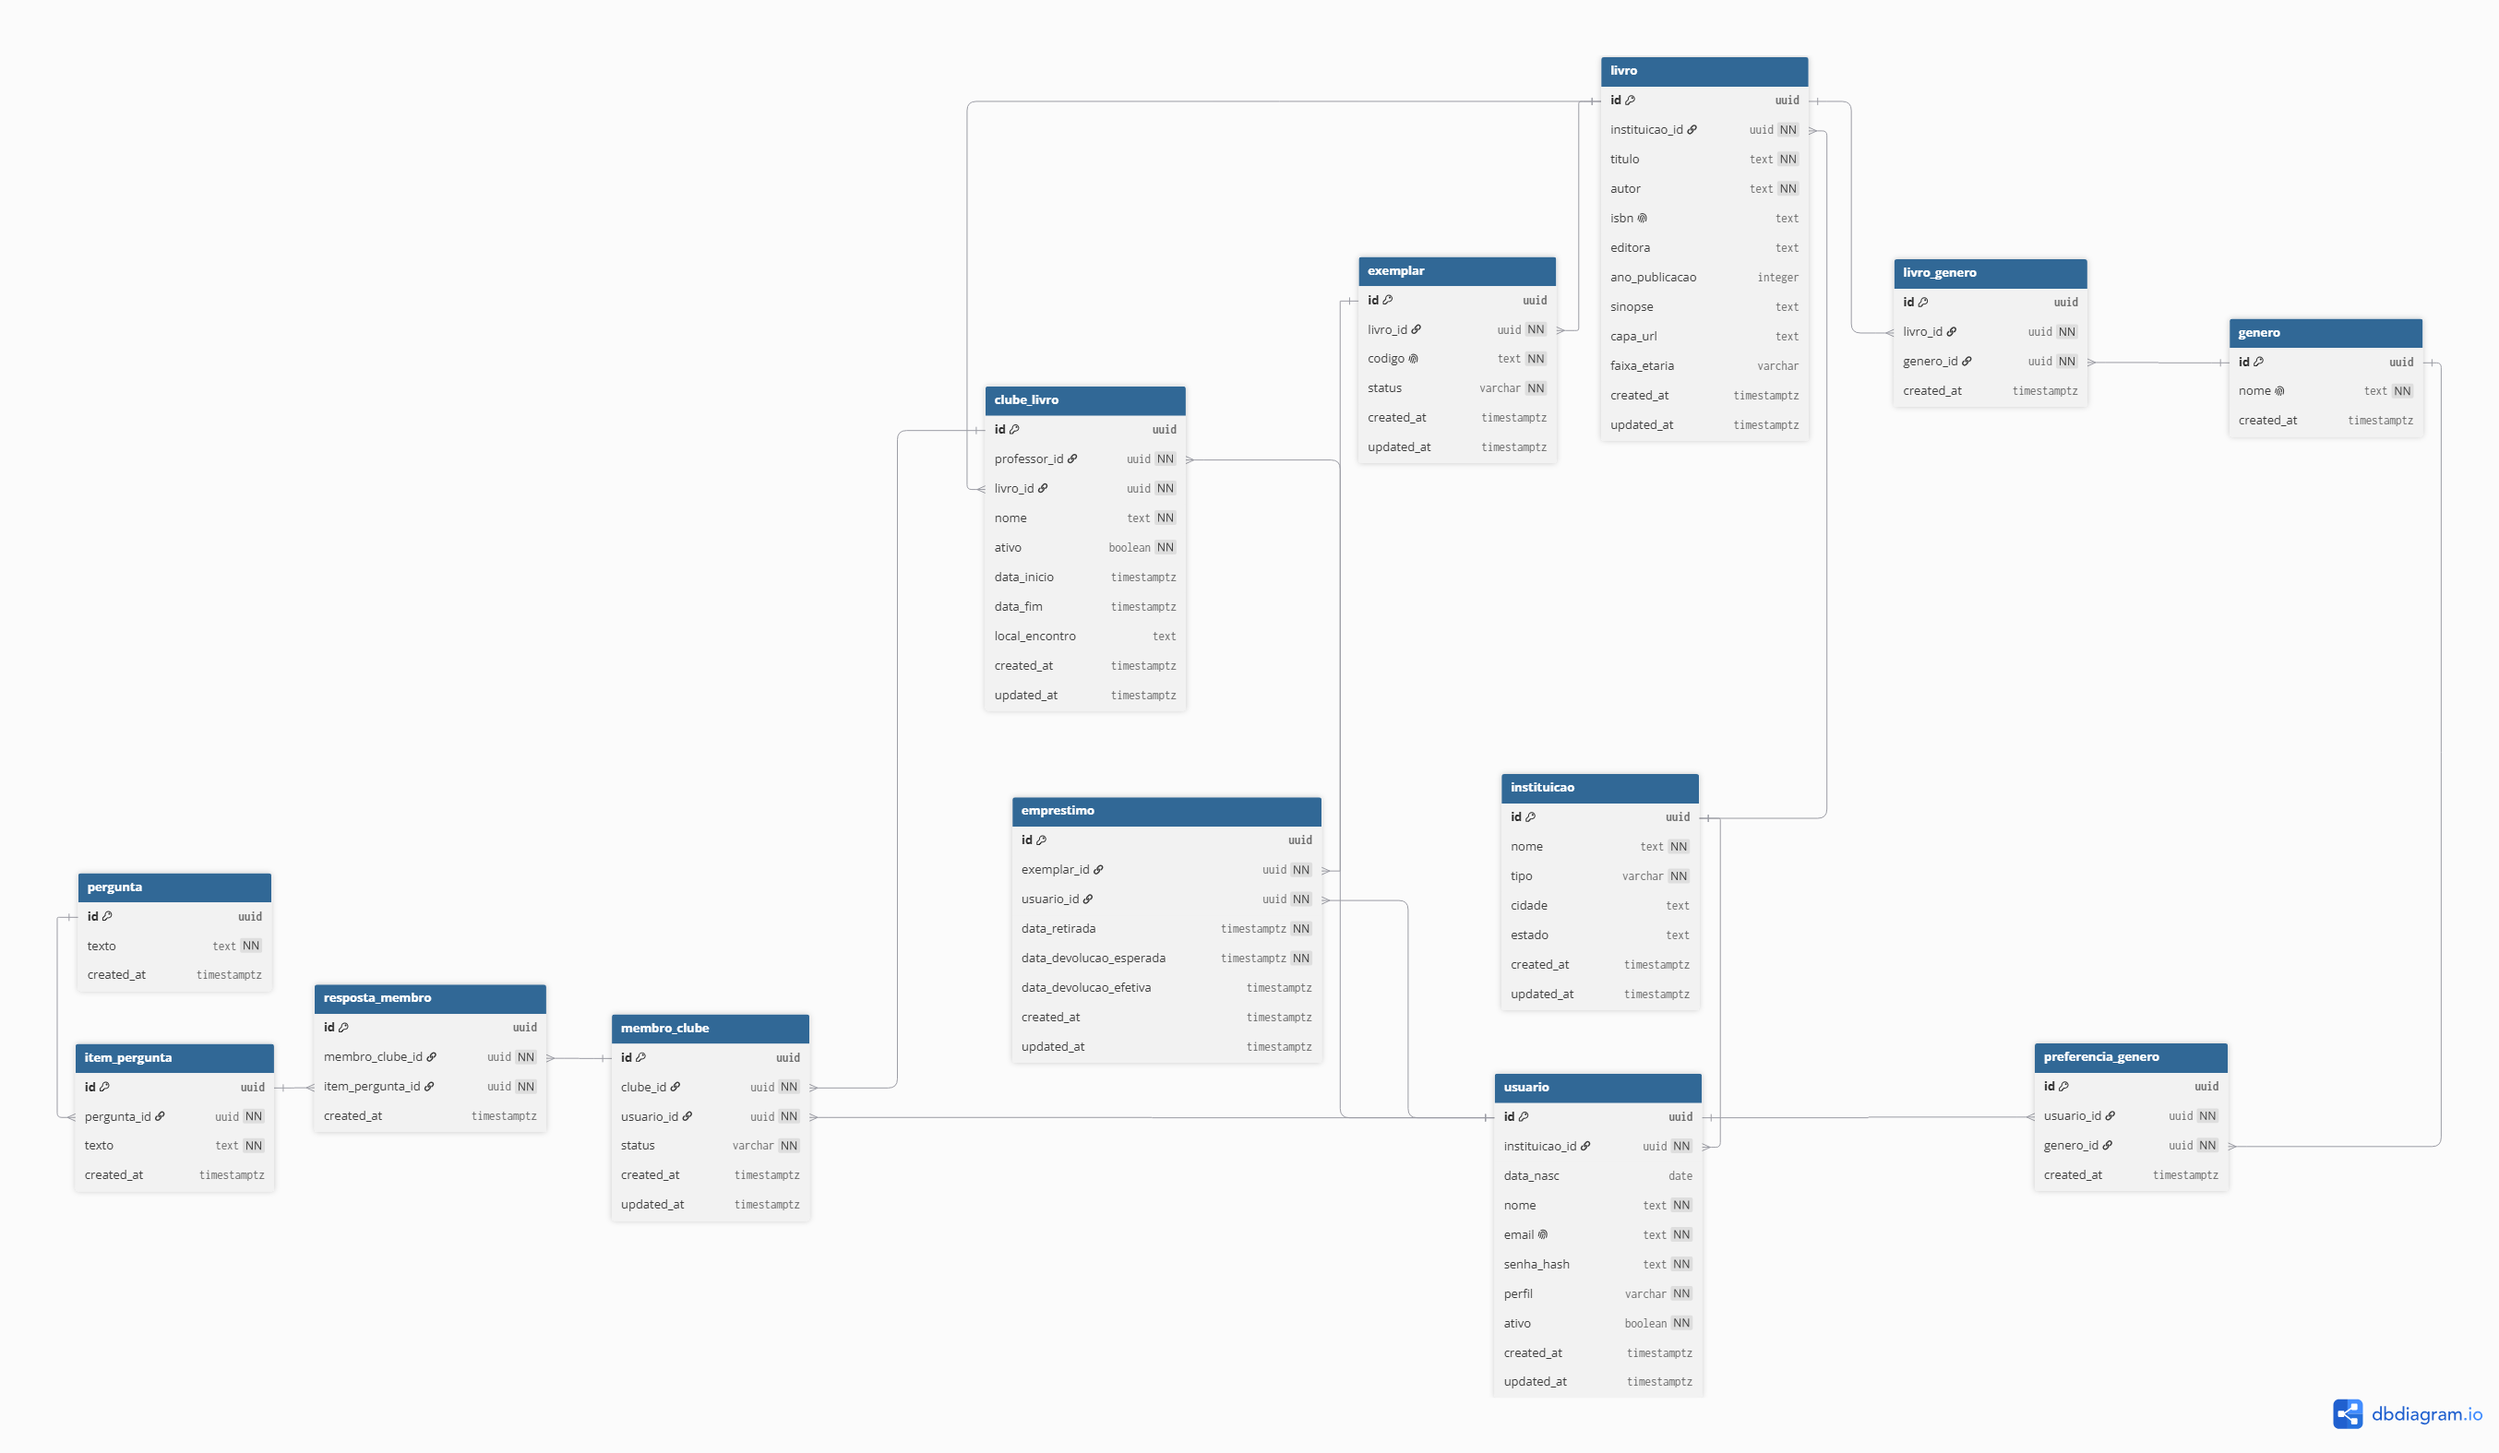
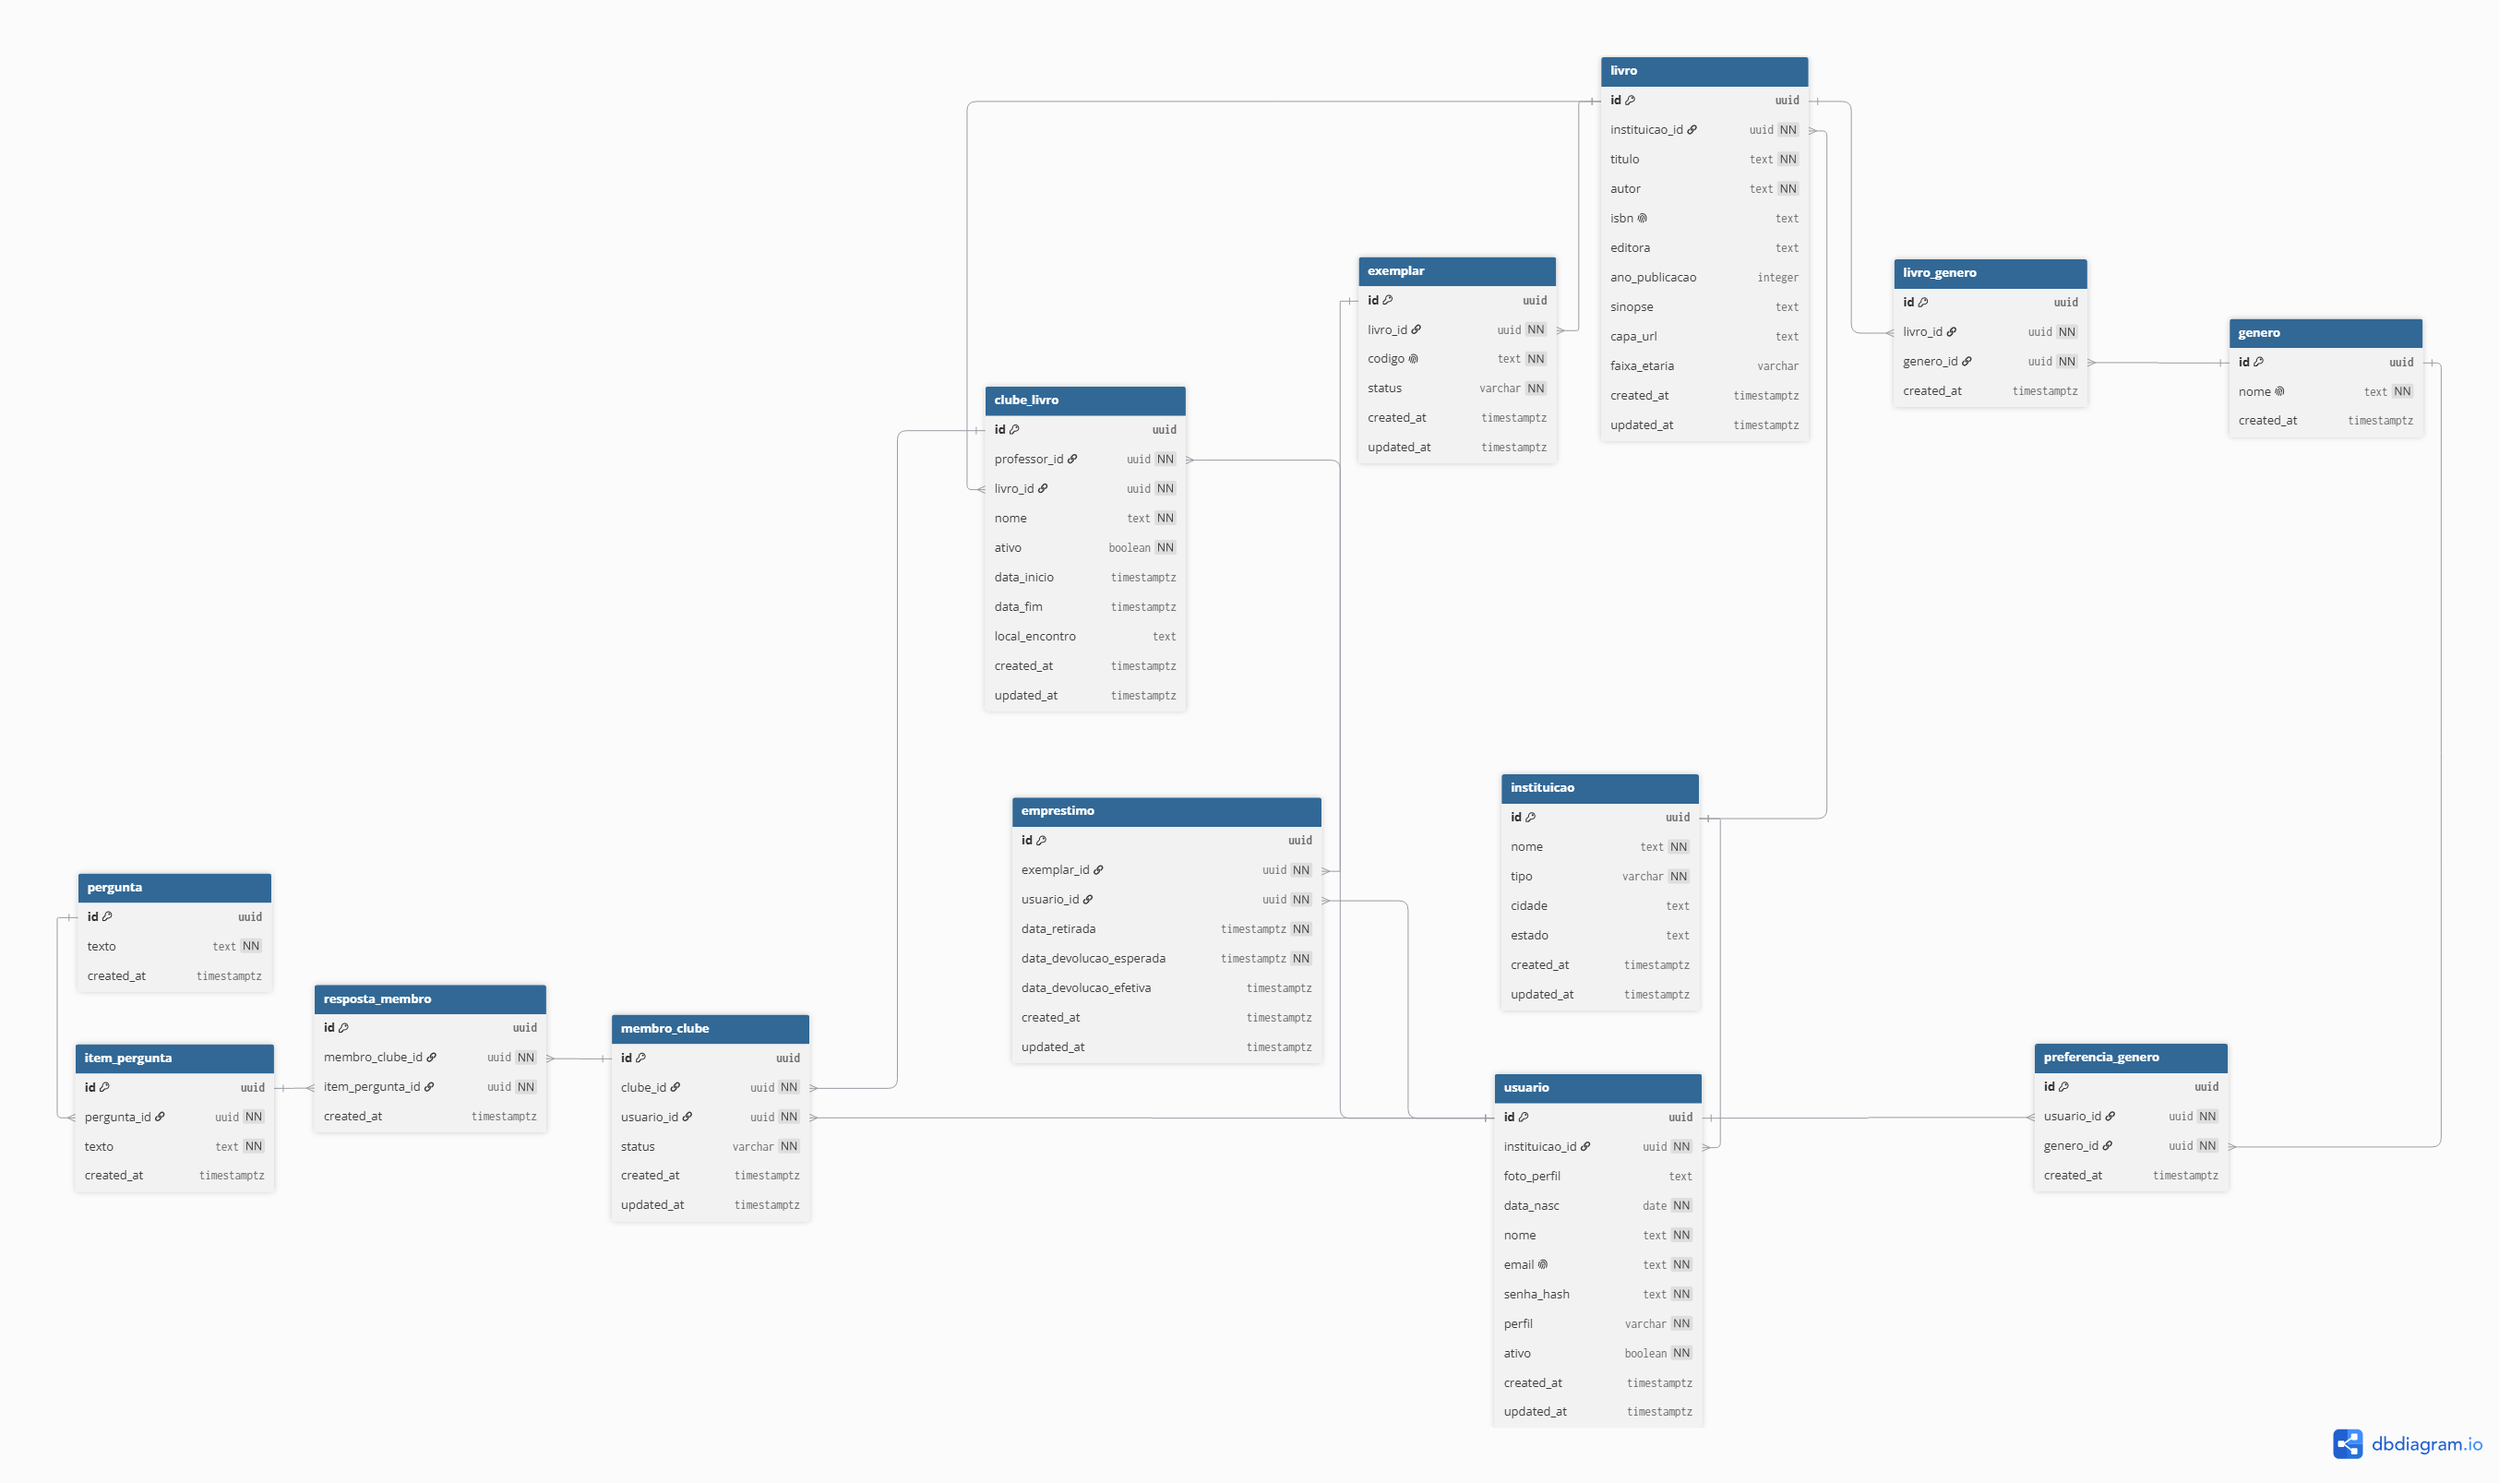
docs: readme atualizado com arquitetura e decisões técnicas

diff --git a/README.md b/README.md
@@ -50,3 +50,74 @@ Sistema de Acompanhamento Bibliográfico Escolar em Rede
 ```bash
    npm run start:dev
 ```
+
+## Arquitetura
+
+```
+┌─────────────────────────────────────────────────────────────┐
+│                        Cliente                              │
+│                    Angular (SPA)                            │
+│         Reactive Forms · HTTP Interceptor · Lazy Loading    │
+└─────────────────────────┬───────────────────────────────────┘
+                          │ HTTP/REST + JWT
+┌─────────────────────────▼───────────────────────────────────┐
+│                        Backend                              │
+│                       NestJS                                │
+│                                                             │
+│  Controller → Service → Repository                          │
+│                                                             │
+│  JwtAuthGuard · RolesGuard · HttpExceptionFilter            │
+└─────────────────────────┬───────────────────────────────────┘
+                          │ TypeORM
+┌─────────────────────────▼───────────────────────────────────┐
+│                     Banco de Dados                          │
+│                     PostgreSQL 16                           │
+│              (container Docker em produção)                 │
+└─────────────────────────────────────────────────────────────┘
+```
+
+## Comandos úteis
+
+```bash
+# Gerar uma nova migration
+cd backend && npm run migration:generate -- src/database/migrations/nome-da-migration
+
+# Aplicar migrations pendentes
+cd backend && npm run migration:run
+
+# Reverter a última migration
+cd backend && npm run migration:revert
+
+# Popular o banco com dados de desenvolvimento
+cd backend && npm run seed
+
+# Documentação da API (com o servidor rodando)
+http://localhost:3000/api
+```
+
+## Decisões técnicas
+
+**`synchronize: false`**
+O TypeORM nunca altera o schema do banco automaticamente. Toda mudança estrutural é feita via migration versionada, garantindo rastreabilidade e consistência entre ambientes.
+
+**UUID como chave primária**
+Todas as entidades usam UUID gerado pelo banco (`uuid_generate_v4()`). Evita colisões em ambientes distribuídos e não expõe sequências numéricas previsíveis nas URLs.
+
+**`timestamptz` para campos de data e hora**
+Todos os campos de data com hora usam `TIMESTAMP WITH TIME ZONE`. Garante que os valores são armazenados em UTC e convertidos corretamente para o fuso do cliente, evitando bugs silenciosos de timezone.
+
+**Senhas com bcrypt**
+Senhas nunca são armazenadas em texto puro. O hash é gerado com `bcrypt` (salt de 10 rounds) antes de persistir. O campo na entity se chama `senha_hash` para deixar explícita a intenção.
+
+**Filtro por instituição via JWT**
+O payload do token JWT inclui o `instituicao_id` do usuário autenticado. Os endpoints `findAll` usam esse valor para filtrar os dados, garantindo isolamento entre instituições sem consultas adicionais ao banco.
+
+**Quantidade de exemplares calculada em runtime**
+Não existe campo `quantidade_disponivel` na tabela `livro`. A disponibilidade é calculada em tempo real contando exemplares com `status = 'disponivel'`. Evita dados derivados desatualizados e inconsistências entre o campo e o estado real.
+
+**Validação em duas camadas**
+Toda entrada de usuário é validada no frontend (Angular Reactive Forms) e novamente no backend (class-validator nos DTOs). A validação no frontend é UX; a do backend é segurança.
+
+## Diagrama Entidade-Relacionamento
+
+![DER](docs/der.png)
